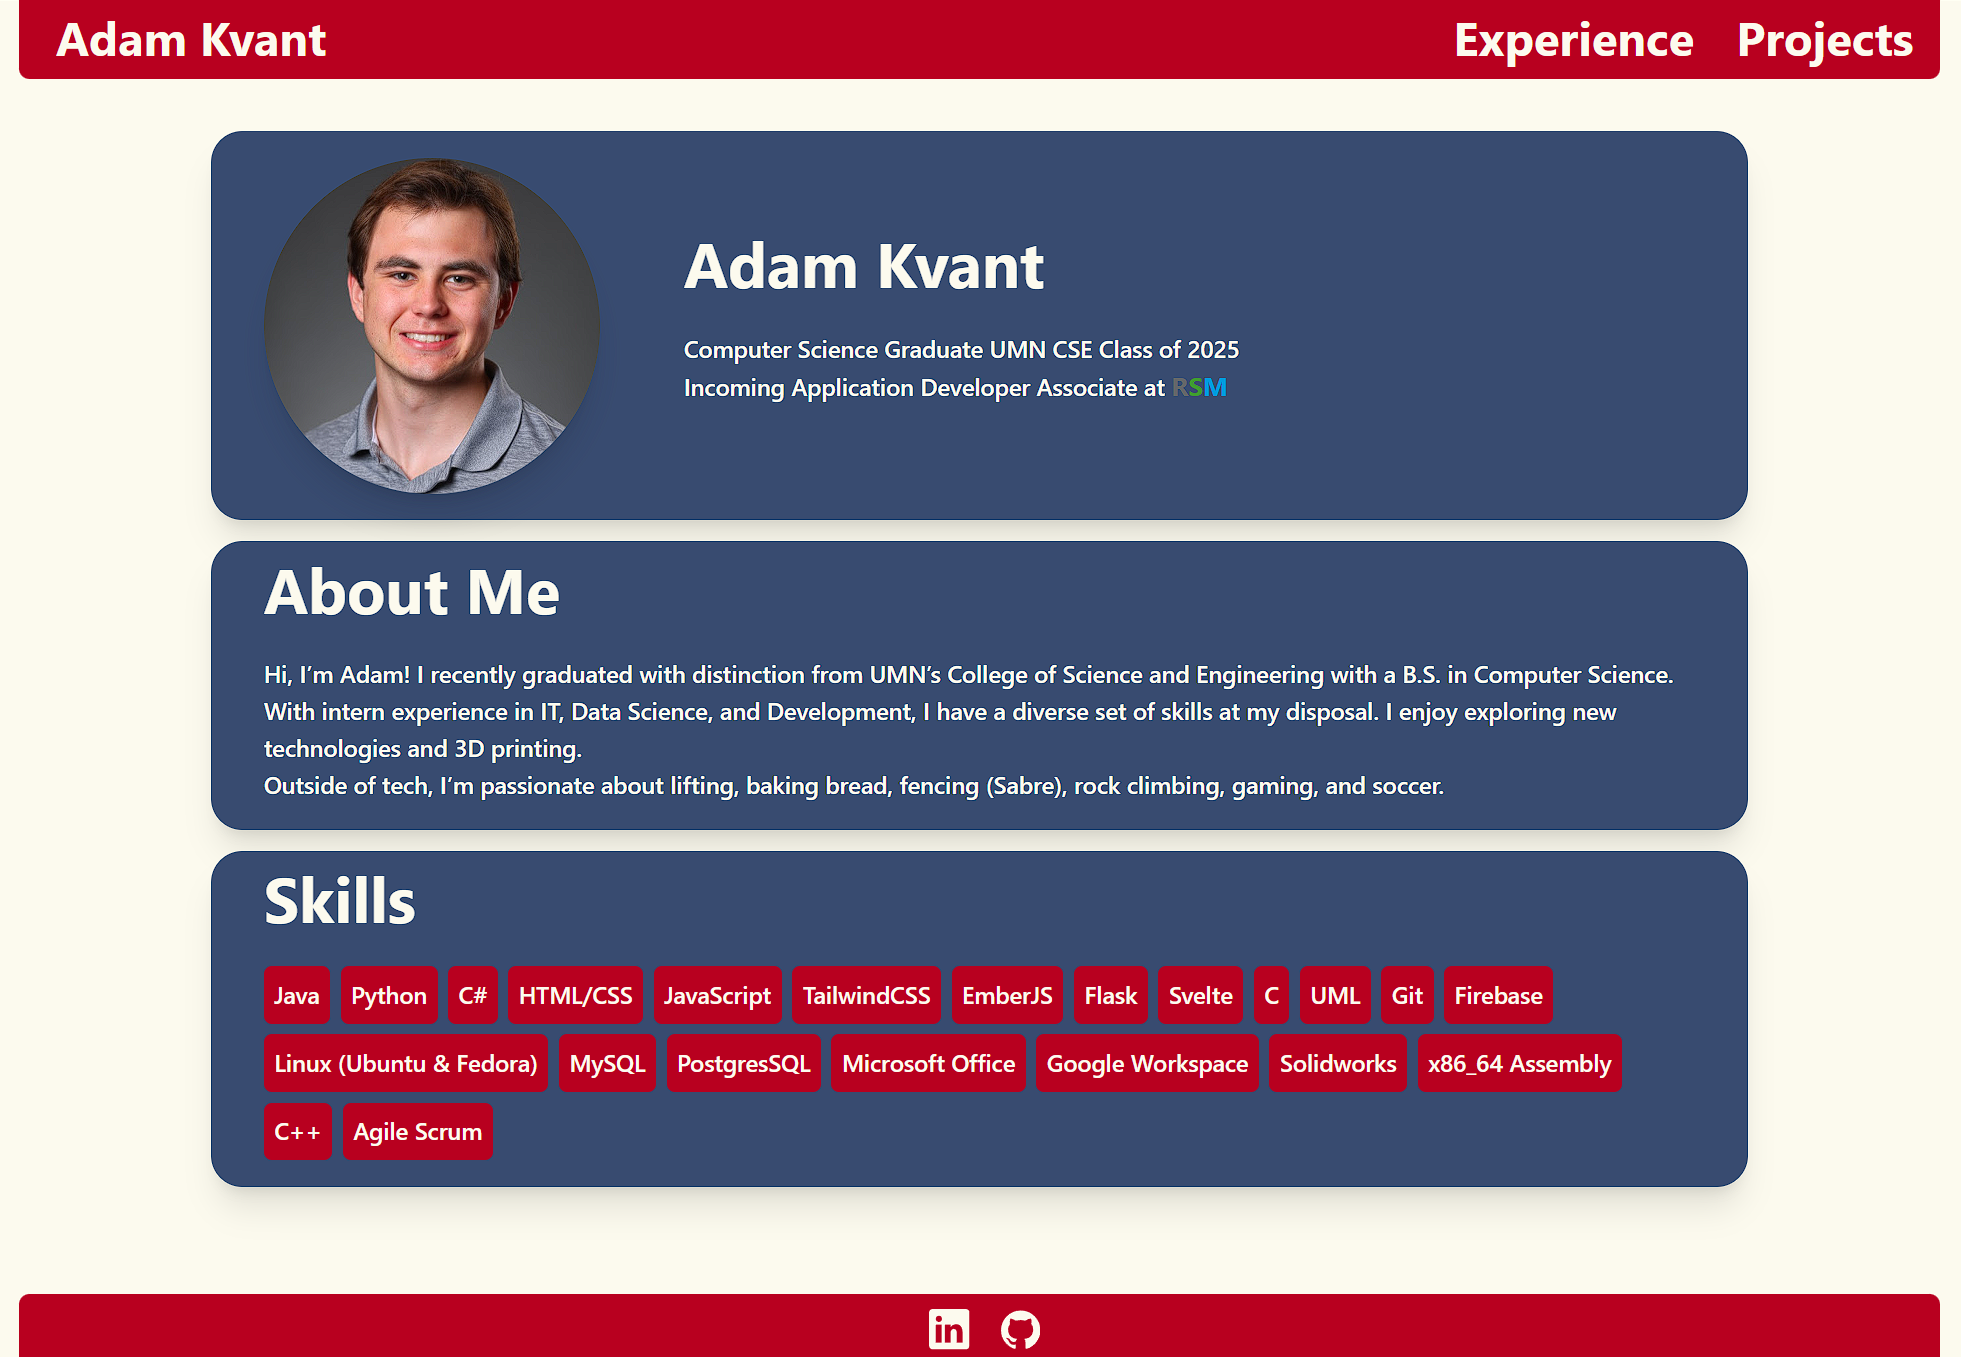
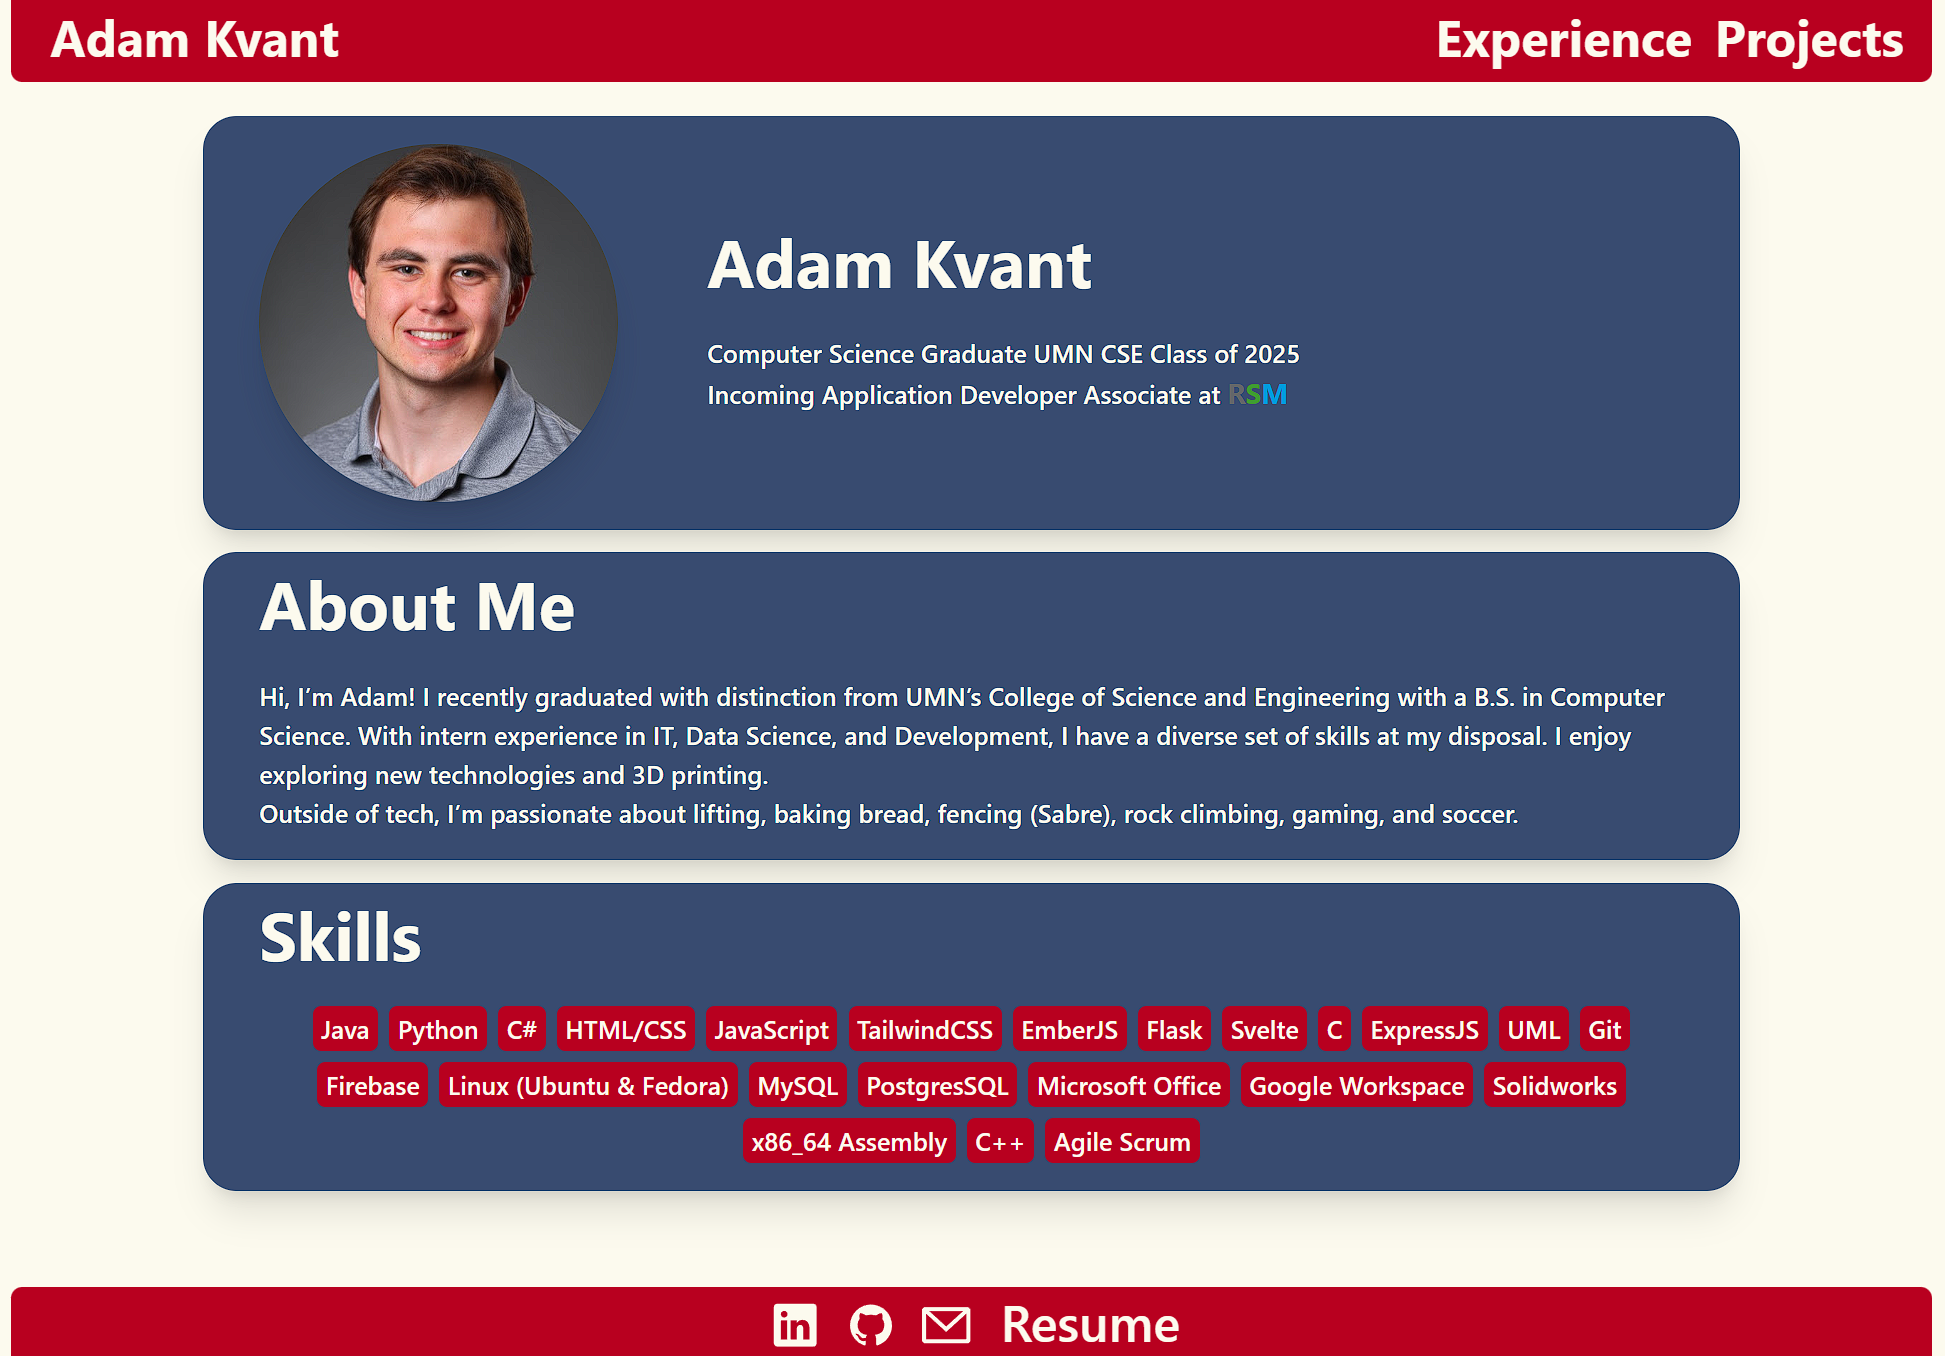
site almost done besides side scrolling

Changed region(s): [[0.0, 0.0, 1.0, 0.8982], [0.0, 0.9292, 1.0, 1.0]]

diff --git a/src/components/Timeline.svelte b/src/components/Timeline.svelte
@@ -5,6 +5,8 @@
         company: "RSM US LLP",
         duration: "Present",
         description: [],
+        source:"rsm_us_llp_logo.jpg",
+        alt:"RSM Logo",
     },
     {
         title: "Application Developer Intern",
@@ -16,6 +18,8 @@
           "Generated plugins and scripts in C# to automate backend Power Platform application processes.",
           "Utilized OData API requests to implement custom data filtering, tested using Postman."
         ],
+        source:"rsm_us_llp_logo.jpg",
+        alt:"RSM Logo",
     },
     {
       title:"CSCI 1933 Course Content Designer",
@@ -26,6 +30,8 @@
         "Led a major course-wide restructuring of course content, the changes affect ~400 students each semester.",
         "Specific details can be found in the \"CSCI 1933 Course Overhaul\" project in my \"Projects\" page.",
       ],
+      source:"umncs.jpg",
+      alt:"University of Minnesota Computer Science Logo",
     },
     {
         title: "Undergraduate Teaching Assistant",
@@ -35,7 +41,9 @@
           "Undergraduate Teaching Assistant for CSCI 1933: Introduction to Algorithms and Data Structures",
           "Project Leader: I directed the creation of many major assignments that introduce core Java concepts.",
           "I lead a lab section with two other TAs, answering questions and directing lab overview.",
-        ],      
+        ],
+        source:"umncs.jpg",
+        alt:"University of Minnesota Computer Science Logo",    
     },
     {
         title: "Data Science Intern",
@@ -46,7 +54,9 @@
           "Implemented SQL queries on insurance claims database to generate synthetic control arms for three clinical trials.",
           "Supported initial progress towards two publications.",
           "Presented to senior engineers and executives in Shark Tank presentations and managed stakeholder expectations."
-        ],      
+        ],
+        source:"optum.jpg",
+        alt:"Optum Logo",    
     },
     {
         title: "Systems Support Analyst Intern",
@@ -56,22 +66,30 @@
           "Led a summer long project of laptop maintenance, repairs, and updates for various Windows machines.",
           "Collaborated with other interns on replacing employee phones throughout the metro area.",
           "Learned how to virtualize apps, use Cylance software, Active Directory, and some server maintenance.",
-        ],      
+        ],
+        source:"egan.jpg",
+        alt:"Egan Logo",    
     },
     ];
   </script>
   
-  <div class="flex flex-col space-y-4 w-full items-center my-10">
+  <div class="flex flex-col space-y-4 w-full items-center my-6">
     {#each timeline as item}
-      <div class="Card shadow-2xl">
-        <div class="mt-2 mb-0 ml-8 space-y-2 mr-4">
-          <h2 class="text-lg font-bold text-[#FCFAEE]">{item.title}</h2>
-          <div class="flex flex-row gap-3">
-            <span class="text-sm font-bold text-gray-300">{item.company}</span>
-            <span class="text-sm text-gray-300 italic">{item.duration}</span>
+      <div class={`Card shadow-2xl pt-2 ${item.description.length == 0 ? 'md:pb-2' : 'md:pb-4'}`}>
+        <div class="md:mt-2 md:mb-0 md:ml-8 space-y-2 md:mr-4 mx-7">
+          <div class="flex flex-col md:flex-row items-center md:items-start">
+            <img class="rounded-full h-16 w-16 md:h-12 md:w-12 md:mr-2 mt-2 md:mt-0 mb-3 md:mb-0" src="/images/{item.source}" alt={item.alt}>
+            <div class="flex flex-col items-center md:items-start">
+              <h2 class="text-lg font-bold text-[#FCFAEE]">{item.title}</h2>
+              <div class="flex flex-row items-center md:items-start gap-3">
+                <span class="text-sm font-bold text-gray-300">{item.company}</span>
+                <span class="text-sm text-gray-300 italic">{item.duration}</span>
+              </div>
+            </div>
+            
           </div>
           {#if item.description}
-          <ul class=" ml-4 list-disc mr-4">
+          <ul class=" mx-4 list-disc pb-2 md:pb-0">
             {#each item.description as desc}
             <li class="text-sm">{desc}</li>
             {/each}

diff --git a/src/app.css b/src/app.css
@@ -31,11 +31,11 @@
 }
 
 .Intro{
-    @apply sm:w-4/5 w-2/5 bg-[#384B70] pb-7 pt-5 rounded-3xl mt-10 flex flex-col md:flex-row items-center justify-center shadow-lg
+    @apply sm:w-4/5 w-2/5 bg-[#384B70] pb-7 pt-5 rounded-3xl mt-6 flex flex-col md:flex-row items-center justify-center shadow-lg
 }
 
 .Name {
-    @apply font-bold text-5xl text-[#FCFAEE] mt-3 md:mt-14 md:pl-16 px-8
+    @apply font-bold text-5xl text-[#FCFAEE] mt-3 md:-mt-1 md:pl-16 px-8
 }
 
 .IntroDesc{
@@ -43,7 +43,7 @@
 }
 
 .Card {
-    @apply w-11/12 md:w-4/5 bg-[#384B70] rounded-3xl text-[#FCFAEE] font-semibold text-lg pb-5 shadow-xl
+    @apply w-11/12 md:w-4/5 bg-[#384B70] rounded-3xl text-[#FCFAEE] font-semibold text-lg pb-3 md:pb-5 shadow-xl
 }
 
 .CardTitle{

diff --git a/src/components/Projects.svelte b/src/components/Projects.svelte
@@ -57,7 +57,7 @@
     import Tag from "./Tag.svelte";
   </script>
   
-  <div class="flex flex-col space-y-4 w-full items-center my-10">
+  <div class="flex flex-col space-y-4 w-full items-center my-6">
     {#each projects as item}
       <a href={item.link} class="Card flex flex-col-reverse items-center md:items-start md:flex-row shadow-2xl">
         {#if item.source}

diff --git a/src/routes/+layout.svelte b/src/routes/+layout.svelte
@@ -8,7 +8,7 @@
 <div class="flex justify-center max-w-screen">
     <div class="sm:w-11/12 lg:w-9/12 flex flex-col min-h-screen relative">
         <Header/>
-        <div class="mb-16">{@render children()}</div>
+        <div class="mb-14">{@render children()}</div>
         <div class="absolute bottom-0 w-full">
             <Footer/>
         </div>

diff --git a/src/routes/+page.svelte b/src/routes/+page.svelte
@@ -8,7 +8,7 @@
   </script>
 
   <!-- Body -->
-<div class="flex flex-col items-center gap-4 min-h-full mb-10">
+<div class="flex flex-col items-center gap-4 min-h-full mb-6">
   <!-- Intro -->
   <div class="Card Intro" id="Intro">
       <img src="/images/Headshot.jpg" alt="Adam Kvant Headshot" class="headshot">
